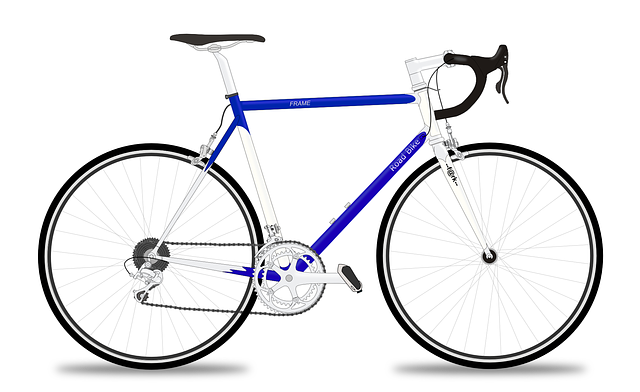
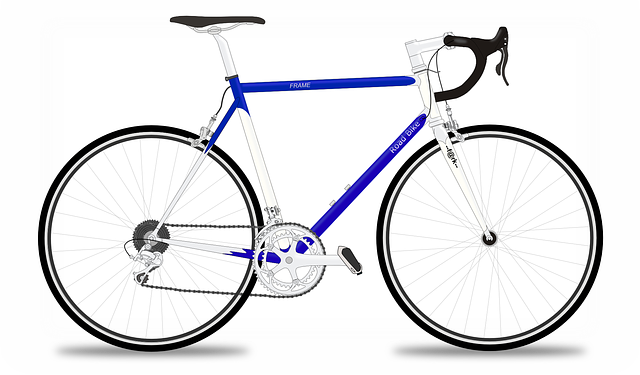
4.2 rename colors column, and cropped images

Changed region(s): [[0.0625, 0.0293, 0.9375, 0.968]]

diff --git a/db/schema.rb b/db/schema.rb
@@ -10,7 +10,7 @@
 #
 # It's strongly recommended that you check this file into your version control system.
 
-ActiveRecord::Schema.define(version: 20170827141232) do
+ActiveRecord::Schema.define(version: 20170831175054) do
 
   create_table "products", force: :cascade do |t|
     t.string "name"
@@ -18,7 +18,7 @@ ActiveRecord::Schema.define(version: 20170827141232) do
     t.string "image_url"
     t.datetime "created_at", null: false
     t.datetime "updated_at", null: false
-    t.string "color"
+    t.string "colour"
     t.decimal "price"
   end
 

diff --git a/app/controllers/products_controller.rb b/app/controllers/products_controller.rb
@@ -69,6 +69,6 @@ class ProductsController < ApplicationController
 
     # Never trust parameters from the scary internet, only allow the white list through.
     def product_params
-      params.require(:product).permit(:name, :description, :image_url, :color, :price)
+      params.require(:product).permit(:name, :description, :image_url, :colour, :price)
     end
 end

diff --git a/db/migrate/20170831175054_rename_colors_in_products.rb b/db/migrate/20170831175054_rename_colors_in_products.rb
@@ -1,0 +1,5 @@
+class RenameColorsInProducts < ActiveRecord::Migration[5.1]
+  def change
+    rename_column :products, :color, :colour
+  end
+end
